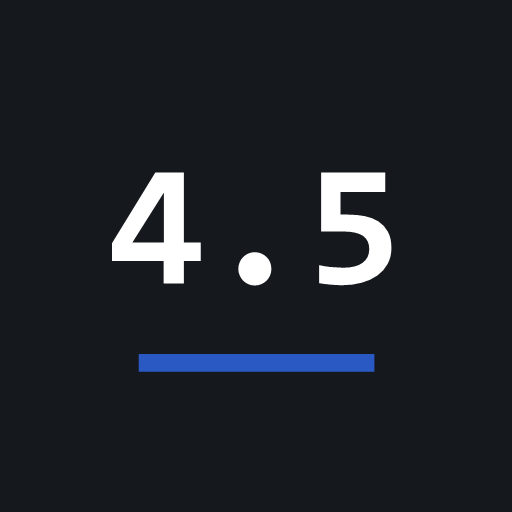
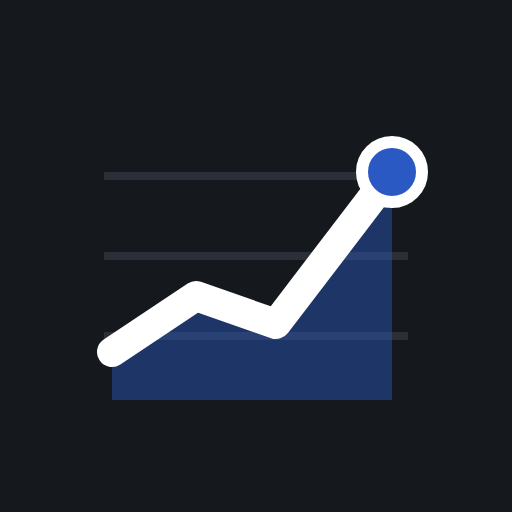
앱 아이콘을 그래프 모양으로 변경
- 홈 화면·탭 아이콘: "4.5" 글자 → 상승하는 선 그래프 (흰 선 + 파란 영역 + 끝점)
- PNG(180·192·512)는 SVG를 그대로 렌더링해 생성
- 사이드바 로고도 같은 그래프 모양으로
- 서비스 워커 v1.2.2

Changed region(s): [[0.1875, 0.25, 0.8438, 0.7812]]

diff --git a/js/ui/views.js b/js/ui/views.js
@@ -39,7 +39,7 @@ function sidebar(c) {
   const sems = sortSemesters(c.scn.semesters).reverse();
   const navItem = (name, label) => `<button type="button" data-act="nav" data-route="${name}" ${r.name === name ? 'aria-current="page"' : ''}>${label}</button>`;
   return `<aside class="sidebar" aria-label="사이드바">
-    <div class="brand"><div class="brand-mark">4.5</div><div class="brand-name">성적 관리</div></div>
+    <div class="brand"><div class="brand-mark" aria-hidden="true"><svg width="20" height="20" viewBox="96 150 320 260"><path d="M112 352 L196 296 L276 324 L392 172 L392 400 L112 400 Z" fill="#2B59C3" fill-opacity="0.55"/><polyline points="112,352 196,296 276,324 392,172" fill="none" stroke="currentColor" stroke-width="34" stroke-linecap="round" stroke-linejoin="round"/></svg></div><div class="brand-name">성적 관리</div></div>
     <nav class="nav" aria-label="주 메뉴">
       ${navItem('dashboard', c.sim ? '시뮬레이션 개요' : '대시보드')}
       ${navItem('plans', '재수강·학점포기')}

diff --git a/sw.js b/sw.js
@@ -1,5 +1,5 @@
 // 오프라인 실행용 서비스 워커. 파일을 바꿔 배포할 때는 VERSION을 올린다.
-const VERSION = 'v1.2.1';
+const VERSION = 'v1.2.2';
 const CACHE = `grade-app-${VERSION}`;
 const SHELL = [
   './',
